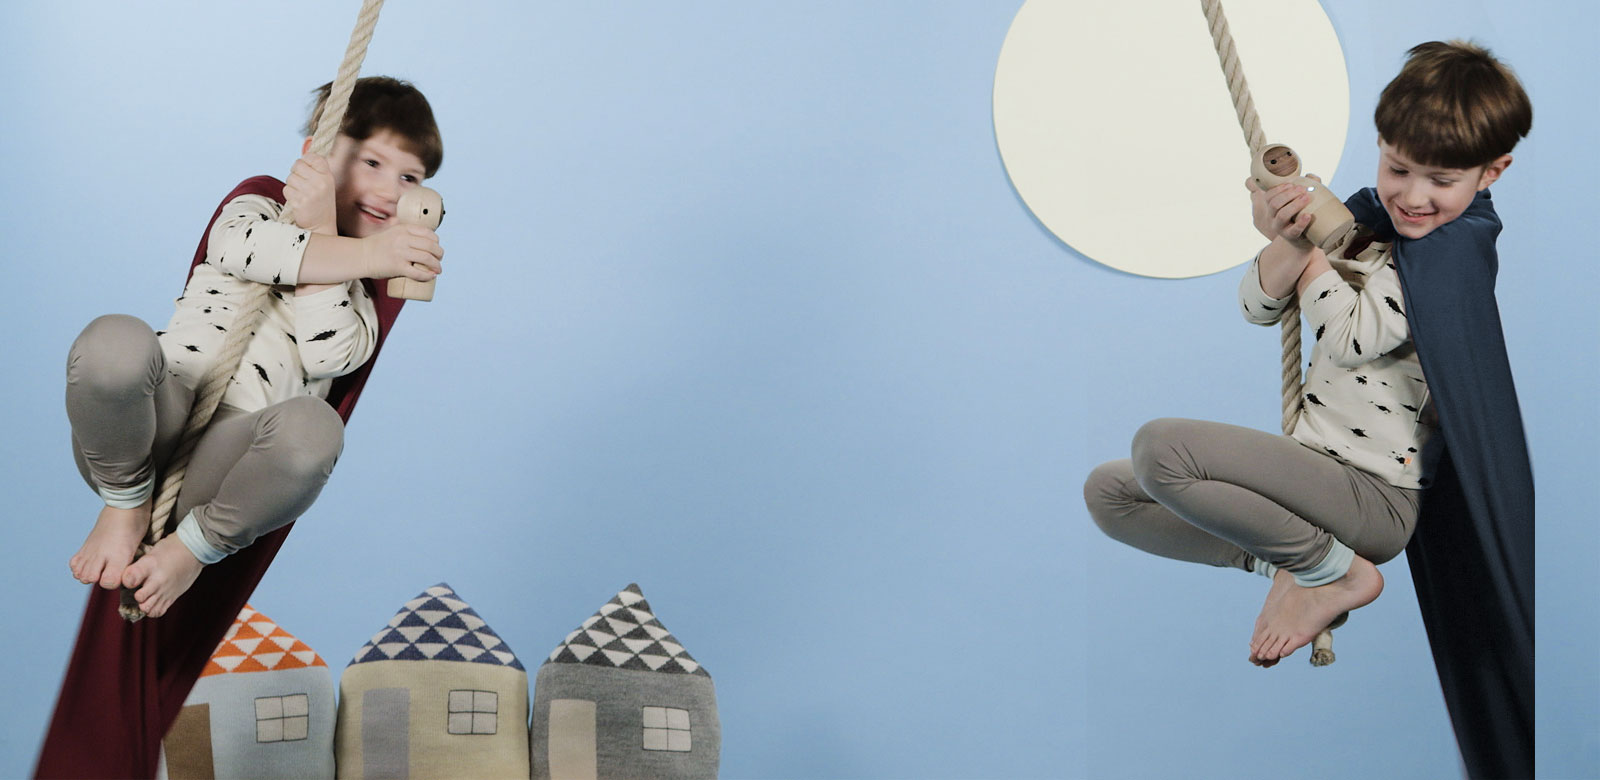
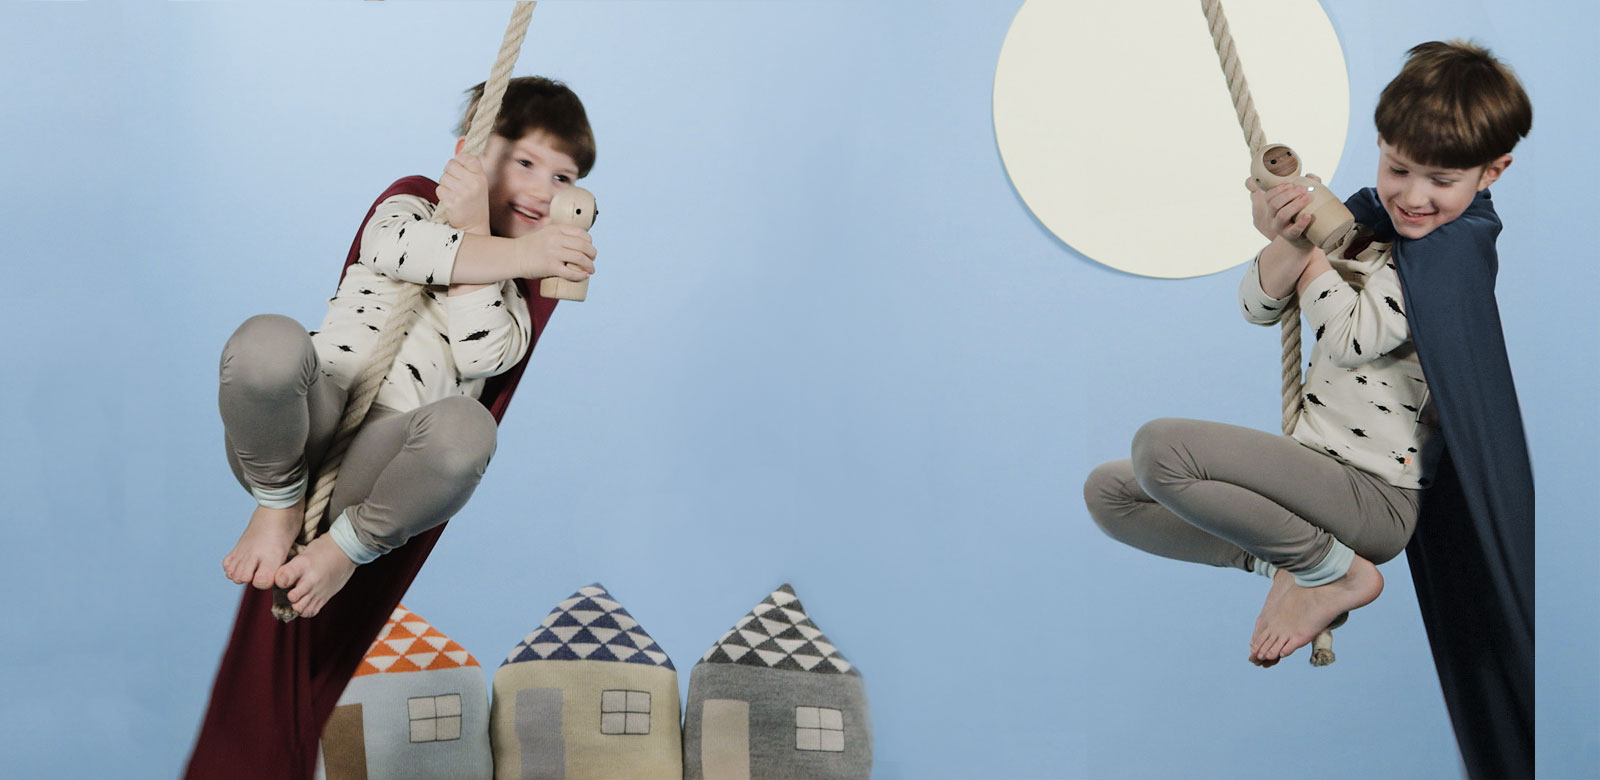
index intro - replace large image

Changed region(s): [[0.0, 0.0, 0.5625, 1.0]]

diff --git a/src/assets/styles/toys.scss b/src/assets/styles/toys.scss
@@ -19,6 +19,7 @@
   -webkit-font-smoothing: antialiased;
   -moz-osx-font-smoothing: grayscale;
   font-smoothing: antialiased;
+  text-shadow: 0 1px 0 rgba(0,0,0,0.05); // fart + pirates
 
   h1, .h1,
   h2, .h2,
@@ -59,62 +60,62 @@
 
 }
 
-#intro.theme-superman
-{
-  background-color: #b7cbdf;
+#intro.theme-superman { background-color: #b7cbdf; }
+#intro.theme-fart { background-color: #E8E6DA; }
+#intro.theme-pirates { background-color: #E0D1BE; }
 
-  @include shift('<s') { background-image: url(../images/more-play/superman-small.jpg); }
-  @include shift('>s <m') { background-image: url(../images/more-play/superman-medium.jpg); }
-  @include shift('>m') { background-image: url(../images/more-play/superman-large.jpg); }
+@include shift('<s')
+{
+  #intro.theme-superman { background-image: url(../images/more-play/superman-small.jpg); }
+  #intro.theme-fart { background-image: url(../images/more-play/fart-small.jpg); }
+  #intro.theme-pirates { background-image: url(../images/more-play/pirates-small.jpg); }
 }
 
-#intro.theme-fart
+@include shift('>s <m')
 {
-  background-color: #E8E6DA;
-  text-shadow: 1px 1px 0 rgba(0,0,0,0.12); // fart + pirates
-
-  @include shift('<s') { background-image: url(../images/more-play/fart-small.jpg); }
-  @include shift('>s <l') { background-image: url(../images/more-play/fart-medium.jpg); }
-  @include shift('>l') { background-image: url(../images/more-play/fart-large.jpg); }
+  #intro.theme-superman { background-image: url(../images/more-play/superman-medium.jpg); }
+  #intro.theme-fart { background-image: url(../images/more-play/fart-medium.jpg); }
+  #intro.theme-pirates { background-image: url(../images/more-play/pirates-medium.jpg); }
 }
 
-#intro.theme-pirates
+@include shift('>m')
 {
-  text-shadow: 1px 1px 0 rgba(0,0,0,0.12); // fart + pirates
-  background-color: #E0D1BE;
-
-  @include shift('<s') { background-image: url(../images/more-play/pirates-small.jpg); }
-  @include shift('>s <m') { background-image: url(../images/more-play/pirates-medium.jpg); }
-  @include shift('>m') { background-image: url(../images/more-play/pirates-large.jpg); }
-}
-
-.stamp-age4plus {
-  position: absolute;
-  top: 5%;
-  right: 5%;
-  left: auto;
-
-  width: convert-length(80px, 'rem');
-  height: convert-length(80px, 'rem');
-  background-image: url(../images/age4plus.svg);
-  background-size: 100% auto;
-}
-
-@include shift('>s')
-{
-  .stamp-age4plus {
-    left: 5%;
-    right: auto;
+  #intro.theme-superman {
+    background-image: url(../images/more-play/superman-large.jpg);
+    background-position: 20% center;
   }
+
+  #intro.theme-fart { background-image: url(../images/more-play/fart-large.jpg); }
+  #intro.theme-pirates { background-image: url(../images/more-play/pirates-large.jpg); }
 }
 
-@include shift('>sm')
-{
-  .stamp-age4plus {
-    width: convert-length(120px, 'rem');
-    height: convert-length(120px, 'rem');
-  }
-}
+// .stamp-age4plus {
+//   position: absolute;
+//   top: 5%;
+//   right: 5%;
+//   left: auto;
+
+//   width: convert-length(80px, 'rem');
+//   height: convert-length(80px, 'rem');
+//   background-image: url(../images/age4plus.svg);
+//   background-size: 100% auto;
+// }
+
+// @include shift('>s')
+// {
+//   .stamp-age4plus {
+//     left: 5%;
+//     right: auto;
+//   }
+// }
+
+// @include shift('>sm')
+// {
+//   .stamp-age4plus {
+//     width: convert-length(120px, 'rem');
+//     height: convert-length(120px, 'rem');
+//   }
+// }
 
 /* =Pre-order
  * ========================================================================== */

diff --git a/src/assets/styles/company.scss b/src/assets/styles/company.scss
@@ -17,6 +17,8 @@ $company-intro-height-m: 740px;
 
 #intro
 {
+  text-shadow: 1px 1px 0 rgba(0,0,0,0.05); // fart + pirates
+
   // repsonsive background
   @include shift('<s')
   {
